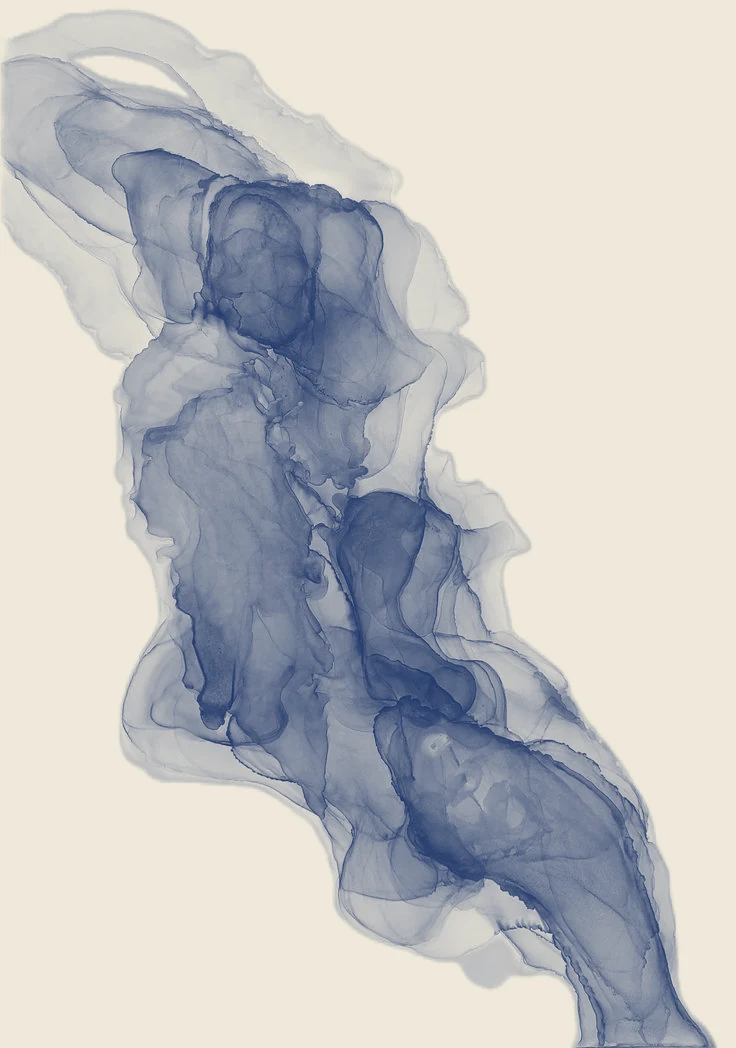
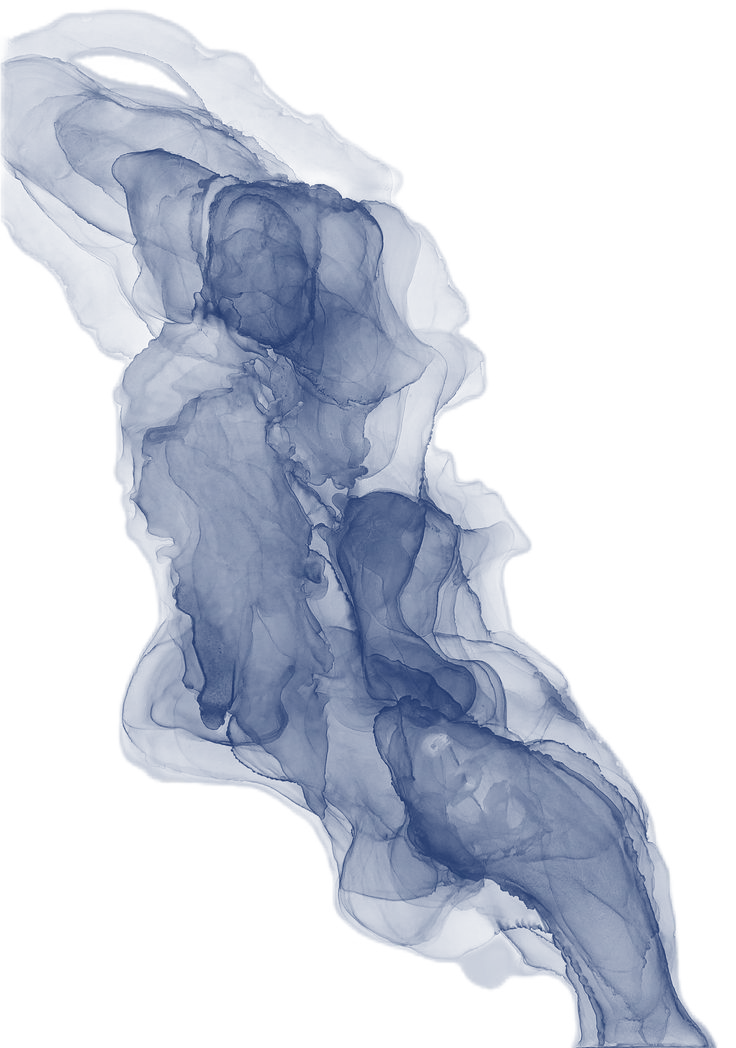
Fix the folio, the ground plate and the place index alignment
Three things that were wrong on real screens.

The folio was pinned to the bottom of the page box with position:absolute,
which is only the bottom of the window while everything fits inside one
screen. On a shorter or zoomed window the content pushed the page taller
and the navigation went off the bottom edge. It is a flex item in the
column now, so it follows the content instead of being cut off, and the
page uses dvh where that exists so a phone's address bar does not eat the
same 64 pixels.

The ground plate was the worse mistake, and mine: flattening it onto the
paper colour to save bytes threw away its transparency, so the whole
image became an opaque rectangle. Lossy WebP then shifted the flat paper
inside it by one level, and where the CSS mask did not fade the edge the
rectangle showed as a block - plainly on a phone, faintly on the left of
the map page. It keeps its alpha now: 204 KB rather than 53 KB, still a
quarter of the PNG, and it cannot draw an edge whether or not the mask
lands.

The heading on the map page moved into the left column of the grid, so
the place index starts level with the top of "Map" rather than a hundred
pixels below it.

diff --git a/site.css b/site.css
@@ -5,8 +5,9 @@ body{min-height:100vh;background:var(--paper);color:var(--ink);font-family:"EB G
 img{display:block;max-width:100%}
 a{color:var(--ink)}
 .page{position:relative;min-height:100vh;overflow:hidden;display:flex;flex-direction:column}
+@supports (min-height:100dvh){.page{min-height:100dvh}}
 .ground{position:absolute;object-fit:cover;pointer-events:none;z-index:0;max-width:none}
-.body{position:relative;z-index:1;flex:1;display:flex;flex-direction:column;justify-content:center;padding:72px 96px 112px}
+.body{position:relative;z-index:1;flex:1;display:flex;flex-direction:column;justify-content:center;padding:72px 96px 48px}
 .mono{font-family:"IBM Plex Mono",monospace;font-weight:300;font-size:12px;letter-spacing:.3em;text-transform:uppercase}
 h1{font-weight:400;font-size:64px;line-height:1.06;margin:0 0 36px}
 h2{font-weight:400;font-size:30px;line-height:1.14;margin:18px 0 16px}
@@ -20,11 +21,13 @@ p{font-size:18px;line-height:1.85;text-align:justify;hyphens:auto;margin:0 0 22p
 .elsewhere{display:flex;flex-wrap:wrap;gap:36px}
 .elsewhere a{text-decoration:none;display:inline-block;padding-bottom:4px;border-bottom:1px solid transparent;transition:transform .22s ease,border-color .22s ease,color .22s ease}
 .elsewhere a:hover,.elsewhere a:focus-visible{transform:translateY(-3px);border-bottom-color:var(--oxide);color:var(--oxide)}
-.folio{position:absolute;left:0;right:0;bottom:0;height:64px;z-index:3;display:flex;align-items:center;justify-content:center;gap:30px}
+.folio{position:relative;flex:none;height:64px;z-index:3;display:flex;align-items:center;justify-content:center;gap:30px}
 .folio a{text-decoration:none;padding-bottom:3px;border-bottom:1px solid transparent;transition:transform .22s ease,border-color .22s ease,color .22s ease}
 .folio a:hover,.folio a:focus-visible,.folio a[aria-current]{border-bottom-color:var(--oxide);color:var(--oxide)}
 .folio a:hover,.folio a:focus-visible{transform:translateY(-2px)}
 .map{display:grid;grid-template-columns:1fr 400px;gap:64px;align-items:start}
+.map-main{min-width:0}
+.map-main h1{margin-bottom:36px}
 #globe{width:100%;max-width:400px;height:auto;aspect-ratio:1;touch-action:none;cursor:grab}
 #globe.over-mark{cursor:pointer}
 #globe.dragging{cursor:grabbing}
@@ -57,7 +60,7 @@ p{font-size:18px;line-height:1.85;text-align:justify;hyphens:auto;margin:0 0 22p
 .g-blog{left:56%;right:-28%;top:4%;bottom:-42%;opacity:.46;-webkit-mask-image:radial-gradient(ellipse 58% 60% at 52% 48%,#000 8%,rgba(0,0,0,.5) 48%,transparent 88%);mask-image:radial-gradient(ellipse 58% 60% at 52% 48%,#000 8%,rgba(0,0,0,.5) 48%,transparent 88%)}
 .g-post{left:58%;right:-30%;top:-20%;bottom:14%;opacity:.38;-webkit-mask-image:radial-gradient(ellipse 56% 58% at 50% 54%,#000 8%,rgba(0,0,0,.45) 48%,transparent 88%);mask-image:radial-gradient(ellipse 56% 58% at 50% 54%,#000 8%,rgba(0,0,0,.45) 48%,transparent 88%)}
 @media (max-width:820px){
- .body{padding:40px 30px 96px;justify-content:flex-start}
+ .body{padding:40px 30px 32px;justify-content:flex-start}
  h1{font-size:40px;margin-bottom:26px}
  .cap::first-letter{font-size:60px;margin-right:10px}
  .map{grid-template-columns:1fr;gap:28px}

diff --git a/map.html b/map.html
@@ -32,9 +32,11 @@
 <div class="page">
 <img class="ground g-map" src="/ground.webp" alt="" aria-hidden="true">
 <main class="body">
-<h1>Map</h1>
 <div class="map">
+<div class="map-main">
+<h1>Map</h1>
 <canvas id="globe" data-lon="12" data-lat="24" width="400" height="400" role="img" aria-label="Orthographic globe with a mark for each place visited. Drag to turn it."></canvas>
+</div>
 <div class="panel">
   <div id="index-view">
     <span class="mono index-head">Places</span>
